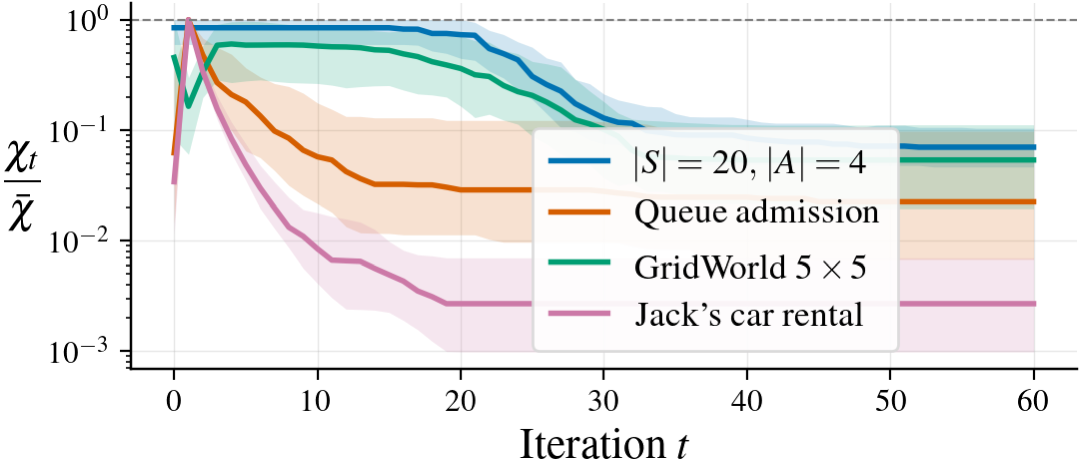
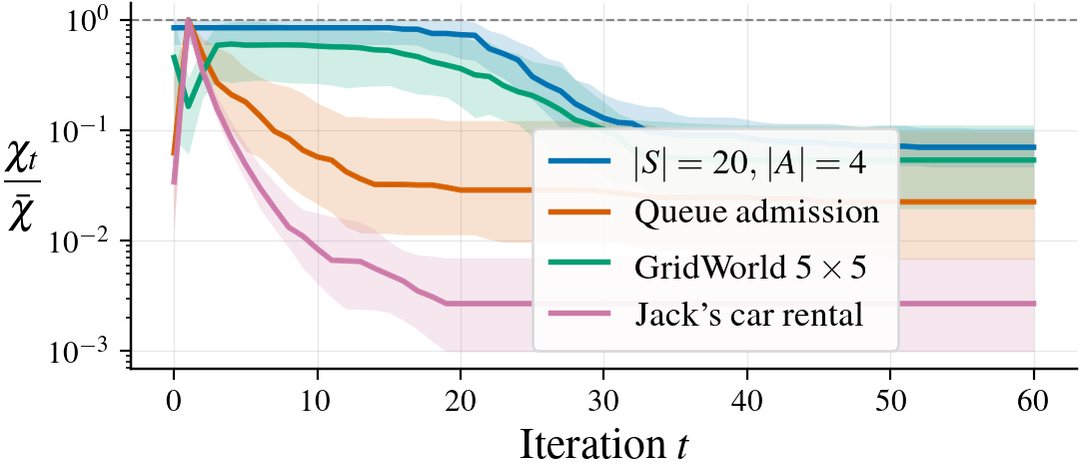
Restore the transparent background of the rate-gap plot

diff --git a/index.html b/index.html
@@ -128,7 +128,7 @@
 
           <li class="pub">
             <a class="track-thumb track-thumb-neurips" href="papers/average-reward-pmd/" aria-label="Read the blog post: Policy mirror descent for average reward">
-              <img src="assets/img/neurips-rate-gap.png?v=3" width="1080" height="471" loading="lazy" alt="Policy mirror descent: the median trajectory-dependent mismatch relative to the worst-case bound decreases across four average-reward MDPs." />
+              <img src="assets/img/neurips-rate-gap.png?v=4" width="1080" height="471" loading="lazy" alt="Policy mirror descent: the median trajectory-dependent mismatch relative to the worst-case bound decreases across four average-reward MDPs." />
             </a>
             <span class="pub-title">Sharp Convergence and Sample Complexity of Policy Mirror Descent for Average-Reward MDPs</span>
             <span class="pub-meta">E. Arda, A. Eryilmaz · NeurIPS 2026 · Accepted · <a href="https://arxiv.org/abs/2610.04117">arXiv</a></span>

diff --git a/papers/average-reward-pmd/index.html b/papers/average-reward-pmd/index.html
@@ -242,7 +242,7 @@
             </li>
           </ul>
           <figure class="paper-figure paper-experiment" style="--figure-width: 420px">
-            <img src="../../assets/img/neurips-rate-gap.png?v=3" width="1080" height="471" loading="lazy"
+            <img src="../../assets/img/neurips-rate-gap.png?v=4" width="1080" height="471" loading="lazy"
                  alt="Median of χ_t/χ̄ against the iteration t, on a logarithmic axis, for four MDPs, with interquartile ranges shaded: a random MDP with 20 states and 4 actions, queue admission, a 5×5 gridworld and Jack’s car rental. All four curves fall from near 1 to between about 0.1 and 0.003 within the first 20 to 40 iterations and stay there." />
             <figcaption>
               Median \({\chi_t/\bar\chi}\) trajectories. Interquartile range shaded.
